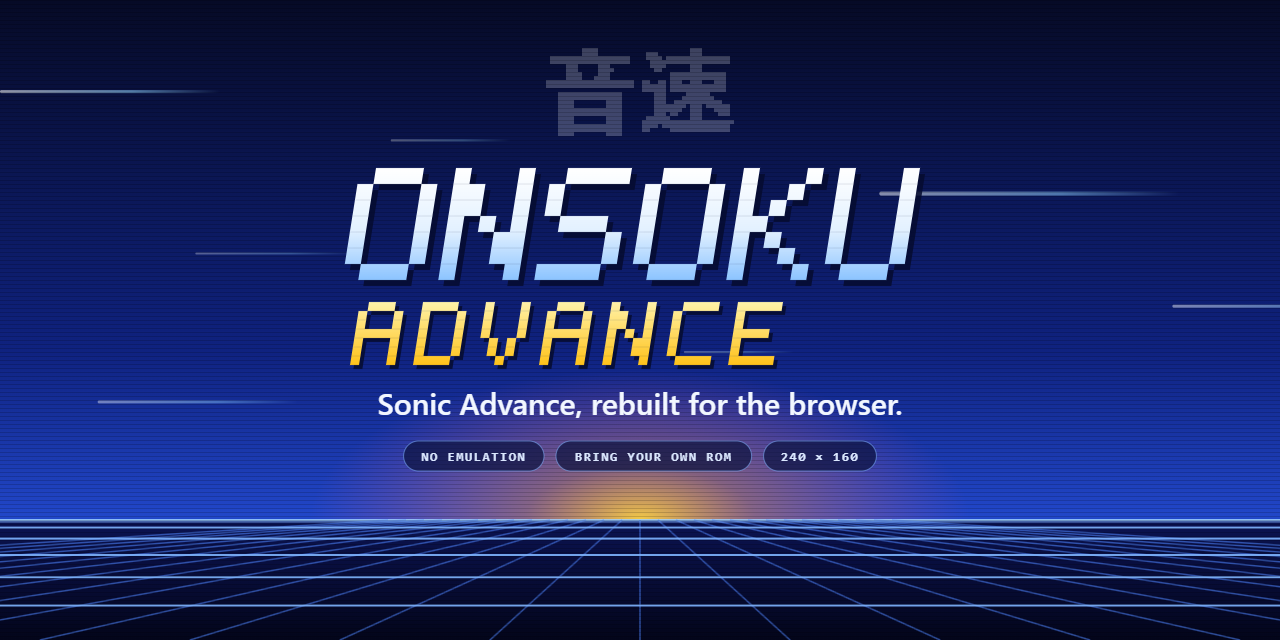
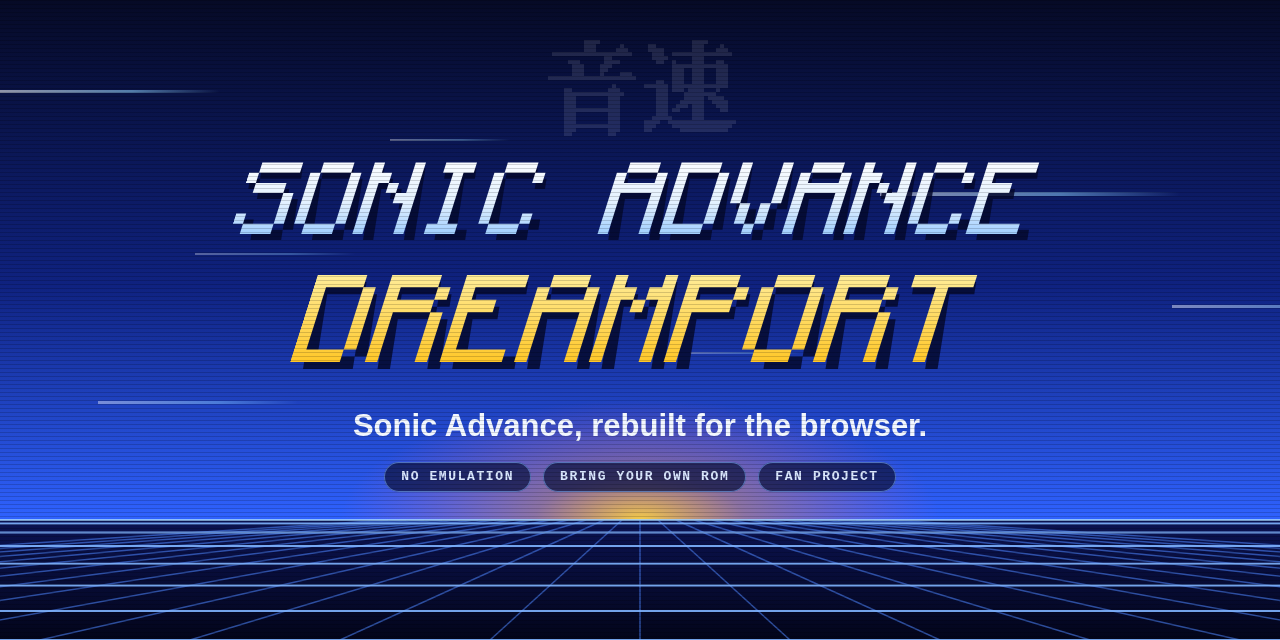
enh: rename the project to Sonic Advance Dreamport, with search and link-preview tags (NahuelGenchi/sonic-advance-dreamport#121) (NahuelGenchi/sonic-advance-dreamport#122)
The README, docs/ROM.md, both page titles and the start screen's and the
asset viewer's name labels now say Sonic Advance Dreamport; the 音速 mark
stays, and the README says the project was called Onsoku Advance.

The play page has a title and description written for search results, a
canonical link, and Open Graph and Twitter card tags. The social preview
image is redrawn in the same style with the new name and is the link
preview.

The browser storage names, the ?debug hook and every repository and Pages
address are unchanged, so saved ROMs and settings stay and the links keep
working until the repository itself is renamed.

diff --git a/games/sonic-advance/index.html b/games/sonic-advance/index.html
@@ -3,8 +3,19 @@
 <head>
 <meta charset="utf-8">
 <meta name="viewport" content="width=device-width, initial-scale=1, user-scalable=no">
-<title>Onsoku Advance</title>
-<meta name="description" content="Sonic Advance, rebuilt for the browser. Bring your own ROM; it never leaves your device.">
+<title>Sonic Advance Dreamport: play Sonic Advance in your browser</title>
+<meta name="description" content="Play Sonic Advance in your web browser: a fan-made port, true to the original, with optional extras. Bring your own ROM; it never leaves your device.">
+<link rel="canonical" href="https://nahuelgenchi.github.io/onsoku-advance/">
+<meta property="og:type" content="website">
+<meta property="og:site_name" content="Sonic Advance Dreamport">
+<meta property="og:title" content="Sonic Advance Dreamport: play Sonic Advance in your browser">
+<meta property="og:description" content="A fan-made port of Sonic Advance, true to the original, with optional extras. Bring your own ROM; it never leaves your device.">
+<meta property="og:url" content="https://nahuelgenchi.github.io/onsoku-advance/">
+<meta property="og:image" content="https://nahuelgenchi.github.io/onsoku-advance/docs/assets/social-preview.png">
+<meta property="og:image:width" content="1280">
+<meta property="og:image:height" content="640">
+<meta property="og:image:alt" content="Sonic Advance Dreamport: Sonic Advance, rebuilt for the browser.">
+<meta name="twitter:card" content="summary_large_image">
 <meta name="theme-color" content="#050a24">
 <link rel="stylesheet" href="styles/app.css">
 </head>

diff --git a/games/sonic-advance/src/ui/rom-setup.js b/games/sonic-advance/src/ui/rom-setup.js
@@ -36,7 +36,7 @@ export function createRomSetup(host, { heading, intro, slots, onPlay }) {
     <div class="setup">
       <header class="setup-head">
         <div class="setup-top">
-          <p class="setup-brand">音速 Onsoku Advance</p>
+          <p class="setup-brand">音速 Sonic Advance Dreamport</p>
           <div class="pad" data-state="gone"><span class="pad-icon" aria-hidden="true"></span><span class="pad-note" role="status" aria-live="polite"></span></div>
         </div>
         <h1>${heading}</h1>

diff --git a/games/sonic-advance/viewer.html b/games/sonic-advance/viewer.html
@@ -3,8 +3,8 @@
 <head>
 <meta charset="utf-8">
 <meta name="viewport" content="width=device-width, initial-scale=1">
-<title>Asset viewer · Onsoku Advance</title>
-<meta name="description" content="See what Onsoku Advance extracts from your own Sonic Advance ROM.">
+<title>Asset viewer · Sonic Advance Dreamport</title>
+<meta name="description" content="See what Sonic Advance Dreamport extracts from your own Sonic Advance ROM.">
 <link rel="stylesheet" href="styles/app.css">
 </head>
 <body>

diff --git a/games/sonic-advance/src/ui/rom-picker.js b/games/sonic-advance/src/ui/rom-picker.js
@@ -11,7 +11,7 @@ const MAX_ROM_BYTES = 32 * 1024 * 1024;   // largest GBA cartridge
 export function createRomPicker(host, { heading, intro, onRom }) {
   host.innerHTML = `
     <div class="picker-card">
-      <p class="eyebrow">音速 · Onsoku Advance</p>
+      <p class="eyebrow">音速 · Sonic Advance Dreamport</p>
       <h1>${heading}</h1>
       <p class="intro">${intro}</p>
       <button type="button" class="continue" hidden></button>

diff --git a/games/sonic-advance/docs/ROM.md b/games/sonic-advance/docs/ROM.md
@@ -2,7 +2,7 @@
 
 [Back to README](../README.md)
 
-Onsoku Advance reads its graphics and data from **your own** Sonic Advance ROM, in your browser. The ROM is never uploaded; if you tick *Remember on this device* on the game's start screen (*Remember this ROM on this device* in the asset viewer), it is kept in this browser's IndexedDB, with the Sonic Advance 2 and Sonic Rush ROMs the extras read, and can be removed with *Forget the saved ROMs* (or the *×* next to a ROM).
+Sonic Advance Dreamport reads its graphics and data from **your own** Sonic Advance ROM, in your browser. The ROM is never uploaded; if you tick *Remember on this device* on the game's start screen (*Remember this ROM on this device* in the asset viewer), it is kept in this browser's IndexedDB, with the Sonic Advance 2 and Sonic Rush ROMs the extras read, and can be removed with *Forget the saved ROMs* (or the *×* next to a ROM).
 
 The optional [Boost Mode](#sonic-advance-2-for-boost-mode) and [Sonic Advance 2 tricks](#sonic-advance-2-tricks) read your Sonic Advance 2 ROM the same way.
 
@@ -523,7 +523,7 @@ The HUD runs after the rings and objects and before Sonic, so it shows the ring 
 
 ### The game's start
 
-Before the act, Onsoku Advance shows what Sonic Advance shows when it starts with a saved game: the SEGA and Sonic Team logos (`CreateSegaLogo`), the intro (`CreateIntroAnimation`), the title screen (`CreateTitleScreen`) and the main menu (`CreateMainMenu`). They are a port of the original's code ([`src/front/`](../src/front/)) on a port of the engine its screens are built on ([`src/gba/engine.js`](../src/gba/engine.js)): the tasks run once a frame in order of priority, the copies of the display registers they write, the graphics queue copied to VRAM in the V-blank, the heap the sprites' tiles are given room in, the sprites' OAM entries, the H-blank DMA that changes a register from one line to the next, and the keys. [`src/gba/video.js`](../src/gba/video.js) draws the result as the GBA's video hardware does, a line at a time. Everything is read from the ROM as the original reads it: the logos are entries 86 and 87 of the tilemap table, the intro's pictures come from the intro graphics, its sprites from the sprite tables and its names' letters from the intro tables, and the title screen's background and logo are entries 75 and 74 (the English logo; 73 is the Japanese one). They run at the GBA's own 59.73 frames a second.
+Before the act, this port shows what Sonic Advance shows when it starts with a saved game: the SEGA and Sonic Team logos (`CreateSegaLogo`), the intro (`CreateIntroAnimation`), the title screen (`CreateTitleScreen`) and the main menu (`CreateMainMenu`). They are a port of the original's code ([`src/front/`](../src/front/)) on a port of the engine its screens are built on ([`src/gba/engine.js`](../src/gba/engine.js)): the tasks run once a frame in order of priority, the copies of the display registers they write, the graphics queue copied to VRAM in the V-blank, the heap the sprites' tiles are given room in, the sprites' OAM entries, the H-blank DMA that changes a register from one line to the next, and the keys. [`src/gba/video.js`](../src/gba/video.js) draws the result as the GBA's video hardware does, a line at a time. Everything is read from the ROM as the original reads it: the logos are entries 86 and 87 of the tilemap table, the intro's pictures come from the intro graphics, its sprites from the sprite tables and its names' letters from the intro tables, and the title screen's background and logo are entries 75 and 74 (the English logo; 73 is the Japanese one). They run at the GBA's own 59.73 frames a second.
 
 Frames are counted as mGBA draws them from power-on, the first being frame 0:
 
@@ -550,7 +550,7 @@ Frames are counted as mGBA draws them from power-on, the first being frame 0:
 
 **An overflow in the original.** The window effects write one line past the end of the H-blank DMA's second buffer (`gBgOffsetsBuffer`). In work RAM the sprites' colours (`gObjPalette`) come right after it, so on most of the spotlights' frames, 1312 to 1566, the sprites' colours 0 and 1 hold a window's last line. The engine keeps the buffers and the colours side by side in the same way, so it does the same. Colour 0 is transparent and nothing drawn then uses colour 1, so it never changes the picture (the engine run with the colours kept apart draws the same frames).
 
-**Skipping.** The logos read no keys until Sonic Team's logo fades: then A or Start goes to the title screen on the next frame. In the intro, A, B or Start goes to the title screen on the next frame and stops the intro's music, so the title screen starts its own (song 2). When the intro ends after Amy, the title screen starts without starting its music (`IntroOpenTitlescreenSilent`). A skipped title screen runs as above from the frame after it is set up: with Start pressed on frame 1500 its fade is 1503–1551 and the zoom 1552–1564, the copyright line shows from 1565 and "PRESS START" from 1625. In Onsoku Advance, Enter or the controller's Menu button is Start, Backspace or View is Select, and A and B are the act's jump and attack.
+**Skipping.** The logos read no keys until Sonic Team's logo fades: then A or Start goes to the title screen on the next frame. In the intro, A, B or Start goes to the title screen on the next frame and stops the intro's music, so the title screen starts its own (song 2). When the intro ends after Amy, the title screen starts without starting its music (`IntroOpenTitlescreenSilent`). A skipped title screen runs as above from the frame after it is set up: with Start pressed on frame 1500 its fade is 1503–1551 and the zoom 1552–1564, the copyright line shows from 1565 and "PRESS START" from 1625. In Sonic Advance Dreamport, Enter or the controller's Menu button is Start, Backspace or View is Select, and A and B are the act's jump and attack.
 
 **The main menu.** Start on the title screen plays the select sound (song 106) and the title screen's sprites go; the menu is set up on the next frame, and its items show two frames after that. They are the five variants of "PRESS START"'s animation after its own, Game Start, VS, Time Attack, Options and Tiny Chao Garden, 14 lines apart from line 93, each with its own room in the sprites' VRAM heap. The chosen one is drawn a palette row along, which holds the lit colours. Up and Down move the choice, wrapping round at both ends, with the cursor sound (song 108) each time; held, they repeat 20 frames after the press and every 9 after that. The menu also animates a Chao beside the chosen item, loading its tiles every 5 frames, but never shows it. A on Game Start plays the select sound and darkens the screen over 49 frames; on the last the layers' maps are cleared, and on the next frame the menu starts the boss music (song 29), clears its player and stops it, which stops the title's music, and the character select starts.
 

diff --git a/games/sonic-advance/README.md b/games/sonic-advance/README.md
@@ -1,6 +1,6 @@
 <div align="center">
 
-# Onsoku Advance
+# Sonic Advance Dreamport
 
 ### Sonic Advance, rebuilt to play in your web browser.
 
@@ -10,7 +10,7 @@ Nothing to install. Bring your own copy of the game; it never leaves your device
 
 <a href="https://nahuelgenchi.github.io/onsoku-advance/"><img src="docs/assets/gameplay/hero.webp" width="736" alt="Sonic races through two loops in Neo Green Hill Zone, passes a checkpoint, grinds down a long rail collecting rings and speeds off past the flower beds"></a>
 
-<sub>Neo Green Hill Zone, act 1, in the optional widescreen view. Every clip on this page is a recording of Onsoku Advance itself.</sub>
+<sub>Neo Green Hill Zone, act 1, in the optional widescreen view. Every clip on this page is a recording of Sonic Advance Dreamport itself.</sub>
 
 <br>
 
@@ -26,11 +26,11 @@ Nothing to install. Bring your own copy of the game; it never leaves your device
 
 ## What is it?
 
-Onsoku Advance lets you play **Sonic Advance**, Sonic's 2001 adventure for the Game Boy Advance, in a web browser.
+Sonic Advance Dreamport lets you play **Sonic Advance**, Sonic's 2001 adventure for the Game Boy Advance, in a web browser.
 
-It isn't an emulator (a program that imitates a Game Boy Advance). Instead, the game has been rebuilt piece by piece, so that Sonic runs, jumps and rolls the way he does on the cartridge. The pictures, levels, music and sounds come from **your own copy of the game**: you open your Sonic Advance file on the game's page, and Onsoku Advance reads everything it needs from it, right there on your device.
+It isn't an emulator (a program that imitates a Game Boy Advance). Instead, the game has been rebuilt piece by piece, so that Sonic runs, jumps and rolls the way he does on the cartridge. The pictures, levels, music and sounds come from **your own copy of the game**: you open your Sonic Advance file on the game's page, and Sonic Advance Dreamport reads everything it needs from it, right there on your device.
 
-*Onsoku* (音速) is Japanese for "speed of sound".
+A *Dreamport* is a port of a game you know, with the extras fans dream of, each one optional. The project was called *Onsoku Advance* until October 2026; *onsoku* (音速) is Japanese for "speed of sound".
 
 <table>
 <tr>
@@ -66,7 +66,7 @@ Open the page, choose your file and play, with a keyboard, an Xbox controller or
 
 ## What Sonic can do
 
-All of this works today. Each clip was played and recorded in Onsoku Advance, in Neo Green Hill Zone act 1.
+All of this works today. Each clip was played and recorded in Sonic Advance Dreamport, in Neo Green Hill Zone act 1.
 
 <table>
 <tr>
@@ -373,7 +373,7 @@ The game is [live on GitHub Pages](https://nahuelgenchi.github.io/onsoku-advance
 <summary><b>Is this an emulator?</b></summary>
 <br>
 
-No. An emulator imitates the Game Boy Advance and runs the cartridge's original program. Onsoku Advance never runs that program: the game's rules have been written again from scratch in JavaScript, the language of web pages, and only the pictures, levels, music and sounds are read from your copy of the game.
+No. An emulator imitates the Game Boy Advance and runs the cartridge's original program. Sonic Advance Dreamport never runs that program: the game's rules have been written again from scratch in JavaScript, the language of web pages, and only the pictures, levels, music and sounds are read from your copy of the game.
 
 </details>
 
@@ -436,7 +436,7 @@ flowchart LR
         direction LR
         ext["Extractor<br/>finds the sprite and<br/>tilemap tables"]
         data[("Sprites · palettes<br/>tiles · animations")]
-        engine["Onsoku engine<br/>physics · animation · camera"]
+        engine["Game engine<br/>physics · animation · camera"]
         screen["240 × 160 canvas"]
         sound["Sound engine<br/>songs · samples · PSG"]
         speakers["Audio output"]
@@ -486,9 +486,9 @@ Read [CONTRIBUTING.md](CONTRIBUTING.md) and [docs/TRACKING.md](docs/TRACKING.md)
 
 ## Legal
 
-Onsoku Advance is an unofficial fan project and is not affiliated with or endorsed by SEGA or Sonic Team. Sonic Advance, Sonic Advance 2, Sonic Rush and all related names, characters and artwork belong to SEGA.
+Sonic Advance Dreamport is an unofficial fan project and is not affiliated with or endorsed by SEGA or Sonic Team. Sonic Advance, Sonic Advance 2, Sonic Rush and all related names, characters and artwork belong to SEGA.
 
-This repository holds no ROM and no data taken from one: you need your own legally obtained copy of the game, and its graphics and sounds are read from it on your own device. The short clips on this page (in [docs/assets/gameplay](docs/assets/gameplay)) are recordings of Onsoku Advance running, made to show the project; the characters and artwork in them remain SEGA's.
+This repository holds no ROM and no data taken from one: you need your own legally obtained copy of the game, and its graphics and sounds are read from it on your own device. The short clips on this page (in [docs/assets/gameplay](docs/assets/gameplay)) are recordings of Sonic Advance Dreamport running, made to show the project; the characters and artwork in them remain SEGA's.
 
 The project's own code, documentation and artwork are licensed under [GPL-3.0-or-later](LICENSE).
 
